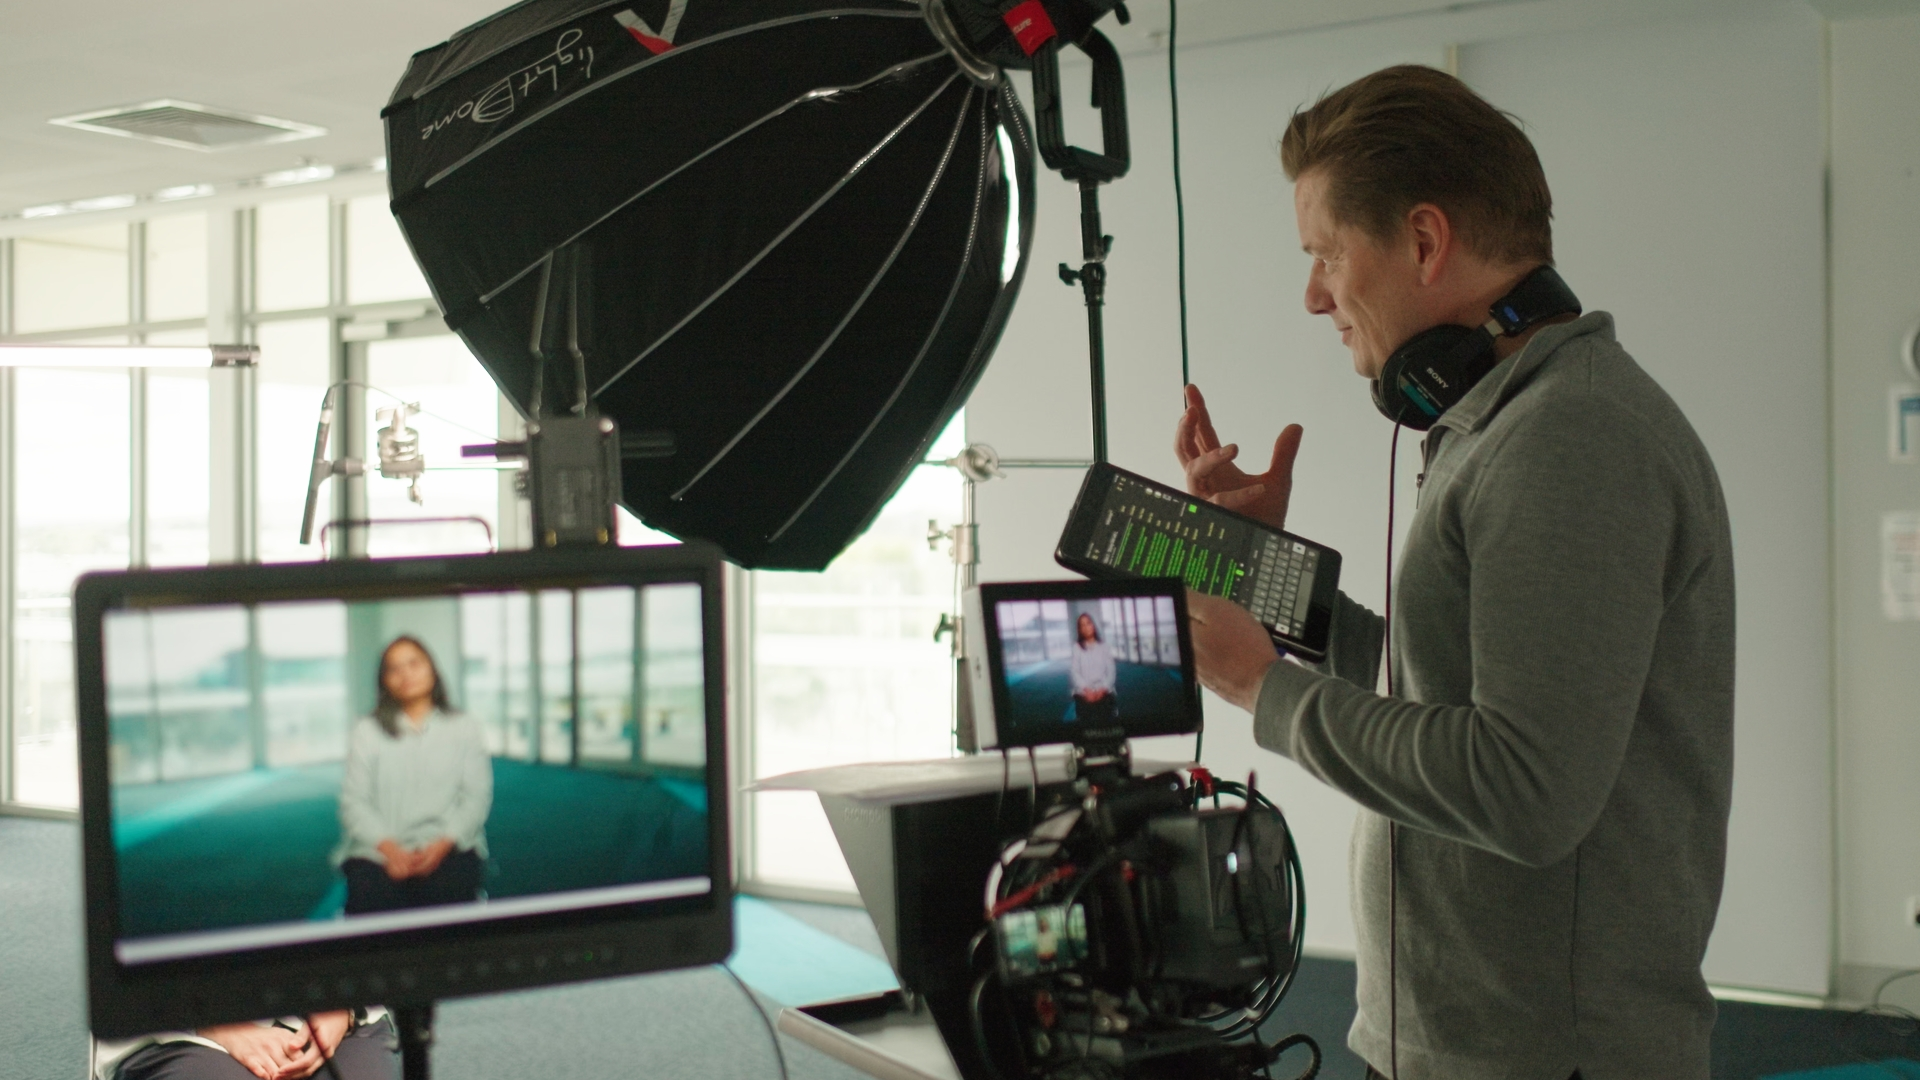
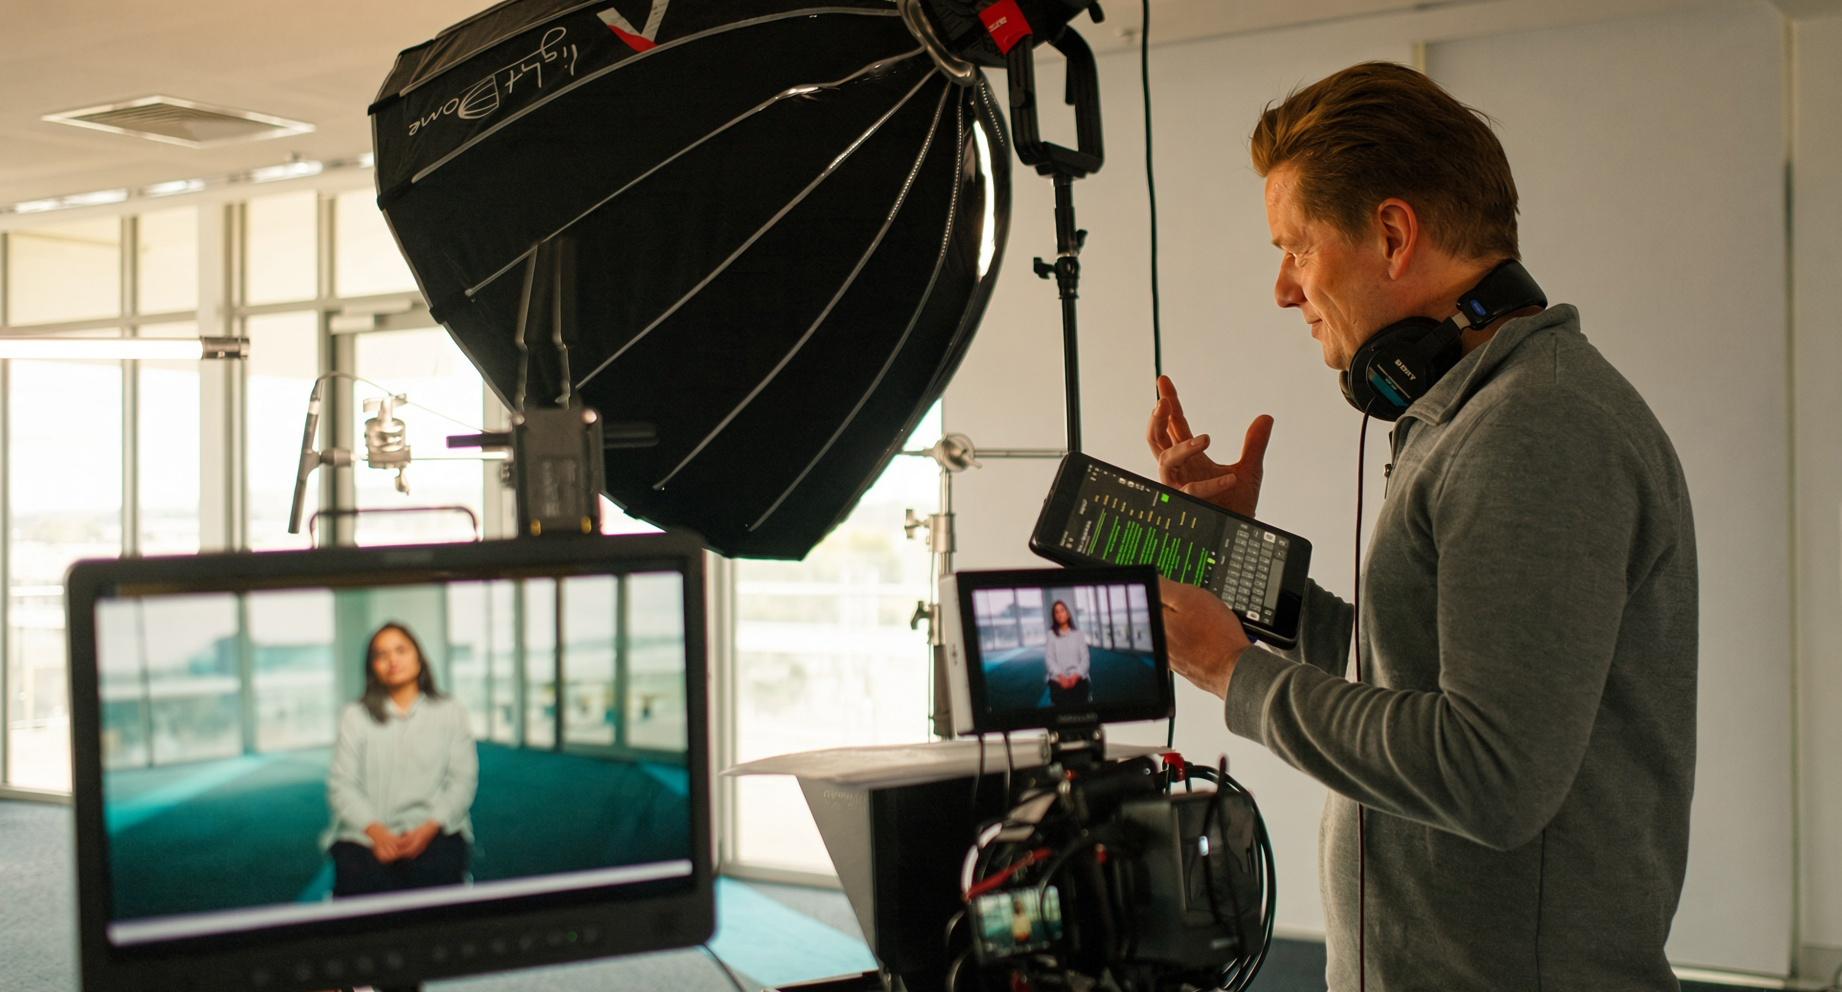
GA script

diff --git a/about.html b/about.html
@@ -10,6 +10,28 @@
   <link href="https://fonts.googleapis.com/css2?family=Archivo:wght@400;700;800&family=Lato:wght@400;700&display=swap" rel="stylesheet">
   <link rel="stylesheet" href="styles.css">
 
+  <!-- ABOUT TEAM LAYOUT: lead profile spans both columns; collaborators form a 2x2 grid. -->
+  <style>
+    .team--about {
+      display: grid;
+      grid-template-columns: repeat(2, minmax(0, 1fr));
+    }
+
+    .team--about .member--lead {
+      grid-column: 1 / -1;
+    }
+
+    @media (max-width: 760px) {
+      .team--about {
+        grid-template-columns: 1fr;
+      }
+
+      .team--about .member--lead {
+        grid-column: auto;
+      }
+    }
+  </style>
+
 <!-- SEO / SOCIAL METADATA: unique to this page. Deployment assumes www.commonground.cc
      and the supplied .html navigation. Update canonical, og:url and JSON-LD URLs together
      if hosting uses extensionless routes. Social image uses an existing site asset;
@@ -109,6 +131,16 @@
   ]
 }
 </script>
+	
+	<!-- Google tag (gtag.js) -->
+<script async src="https://www.googletagmanager.com/gtag/js?id=G-12V5LHD8Q3"></script>
+<script>
+  window.dataLayer = window.dataLayer || [];
+  function gtag(){dataLayer.push(arguments);}
+  gtag('js', new Date());
+  gtag('config', 'G-12V5LHD8Q3');
+</script>
+	
 </head>
 <body>
   <!-- EDITING GUIDE
@@ -159,16 +191,19 @@
   <section class="section" style="padding-top:10px">
     <div class="wrap">
       <p class="mark">/ 02 · People</p>
-      <div class="team">
-        <article class="member">
+      <div class="team team--about">
+        <article class="member member--lead">
           <!-- IMAGE: edit src for the file path and alt for its description; preserve layout classes. -->
           <img src="images/about/CZ.png">
           <div>
             <h3>Christoph</h3>
             <p class="role">Managing &amp; Creative Director</p>
-            <p>More than fifteen years in brand strategy, storytelling and production. As lead consultant and creative director, Christoph oversees the strategic and creative direction of Commonground's projects, guiding clients from first conversation through delivery across brand, video, photography and campaigns.</p>
+            <p>With more than fifteen years of experience in brand strategy, storytelling and production, Christoph leads the strategic and creative direction of Commonground. As Managing and Creative Director, he guides clients from the first conversation through to delivery, bringing together strategic thinking and creative vision across brand, video, photography and campaigns.</p>
+            <p>&nbsp;</p>
+<p>Having partnered with businesses, healthcare organisations, educational institutions and not-for-profits, Christoph helps organisations clarify their purpose, strengthen their identity and communicate with greater impact. At the heart of his approach is a belief in the power of human connection — finding the common ground that deepens understanding, builds lasting trust and inspires meaningful action.</p>
           </div>
         </article>
+
         <article class="member">
           <!-- IMAGE: edit src for the file path and alt for its description; preserve layout classes. -->
           <img src="images/about/AD.png">
@@ -178,6 +213,7 @@
             <p>Collaborator across direction and production — keeping the work moving from brief to delivery.</p>
           </div>
         </article>
+
         <article class="member">
           <!-- IMAGE: edit src for the file path and alt for its description; preserve layout classes. -->
           <img src="images//about/EW.png">
@@ -187,15 +223,7 @@
             <p>Collaborator on brand&nbsp; and strategy —  foundations and&nbsp; narrative.</p>
           </div>
         </article>
-        <article class="member">
-          <!-- IMAGE: edit src for the file path and alt for its description; preserve layout classes. -->
-          <img src="images/about/NM.png">
-          <div>
-            <h3>Nick</h3>
-            <p class="role">Animation &amp; Audio</p>
-            <p>Collaborator on video, animation and motion — graphics, effects and audio that carry the same story as the live action.</p>
-          </div>
-        </article>
+
         <article class="member">
           <!-- IMAGE: edit src for the file path and alt for its description; preserve layout classes. -->
           <img src="images/about/DK.png">
@@ -203,6 +231,16 @@
             <h3>Dan</h3>
             <p class="role">Videography &amp; Lighting</p>
             <p>Collaborator on video production&nbsp; &nbsp;— camera, movement, light — a mix treated as one piece of communication.</p>
+          </div>
+        </article>
+
+        <article class="member">
+          <!-- IMAGE: edit src for the file path and alt for its description; preserve layout classes. -->
+          <img src="images/about/NM.png">
+          <div>
+            <h3>Nick</h3>
+            <p class="role">Animation &amp; Audio</p>
+            <p>Collaborator on video, animation and motion — graphics, effects and audio that carry the same story as the live action.</p>
           </div>
         </article>
       </div>

diff --git a/brand.html b/brand.html
@@ -644,6 +644,16 @@ textarea { min-height: 140px; resize: vertical; }
   ]
 }
 </script>
+	
+	<!-- Google tag (gtag.js) -->
+<script async src="https://www.googletagmanager.com/gtag/js?id=G-12V5LHD8Q3"></script>
+<script>
+  window.dataLayer = window.dataLayer || [];
+  function gtag(){dataLayer.push(arguments);}
+  gtag('js', new Date());
+  gtag('config', 'G-12V5LHD8Q3');
+</script>
+	
 </head>
 <body>
 <!-- ===== PAGE HEADER ===== -->

diff --git a/index.html b/index.html
@@ -183,6 +183,16 @@
   ]
 }
 </script>
+	
+	<!-- Google tag (gtag.js) -->
+<script async src="https://www.googletagmanager.com/gtag/js?id=G-12V5LHD8Q3"></script>
+<script>
+  window.dataLayer = window.dataLayer || [];
+  function gtag(){dataLayer.push(arguments);}
+  gtag('js', new Date());
+  gtag('config', 'G-12V5LHD8Q3');
+</script>
+	
 </head>
 <body>
   <!-- EDITING GUIDE

diff --git a/clients.html b/clients.html
@@ -175,6 +175,14 @@
   ]
 }
 </script>
+	<!-- Google tag (gtag.js) -->
+<script async src="https://www.googletagmanager.com/gtag/js?id=G-12V5LHD8Q3"></script>
+<script>
+  window.dataLayer = window.dataLayer || [];
+  function gtag(){dataLayer.push(arguments);}
+  gtag('js', new Date());
+  gtag('config', 'G-12V5LHD8Q3');
+</script>
 </head>
 <body>
   <!-- EDITING GUIDE

diff --git a/contact.html b/contact.html
@@ -109,6 +109,14 @@
   ]
 }
 </script>
+	<!-- Google tag (gtag.js) -->
+<script async src="https://www.googletagmanager.com/gtag/js?id=G-12V5LHD8Q3"></script>
+<script>
+  window.dataLayer = window.dataLayer || [];
+  function gtag(){dataLayer.push(arguments);}
+  gtag('js', new Date());
+  gtag('config', 'G-12V5LHD8Q3');
+</script>
 </head>
 <body>
   <!-- EDITING GUIDE

diff --git a/photography.html b/photography.html
@@ -129,6 +129,14 @@
   ]
 }
 </script>
+	<!-- Google tag (gtag.js) -->
+<script async src="https://www.googletagmanager.com/gtag/js?id=G-12V5LHD8Q3"></script>
+<script>
+  window.dataLayer = window.dataLayer || [];
+  function gtag(){dataLayer.push(arguments);}
+  gtag('js', new Date());
+  gtag('config', 'G-12V5LHD8Q3');
+</script>
 </head>
 <body>
   <!-- EDITING GUIDE

diff --git a/video.html b/video.html
@@ -170,6 +170,14 @@
   ]
 }
 </script>
+	<!-- Google tag (gtag.js) -->
+<script async src="https://www.googletagmanager.com/gtag/js?id=G-12V5LHD8Q3"></script>
+<script>
+  window.dataLayer = window.dataLayer || [];
+  function gtag(){dataLayer.push(arguments);}
+  gtag('js', new Date());
+  gtag('config', 'G-12V5LHD8Q3');
+</script>
 </head>
 <body>
   <!-- EDITING GUIDE
